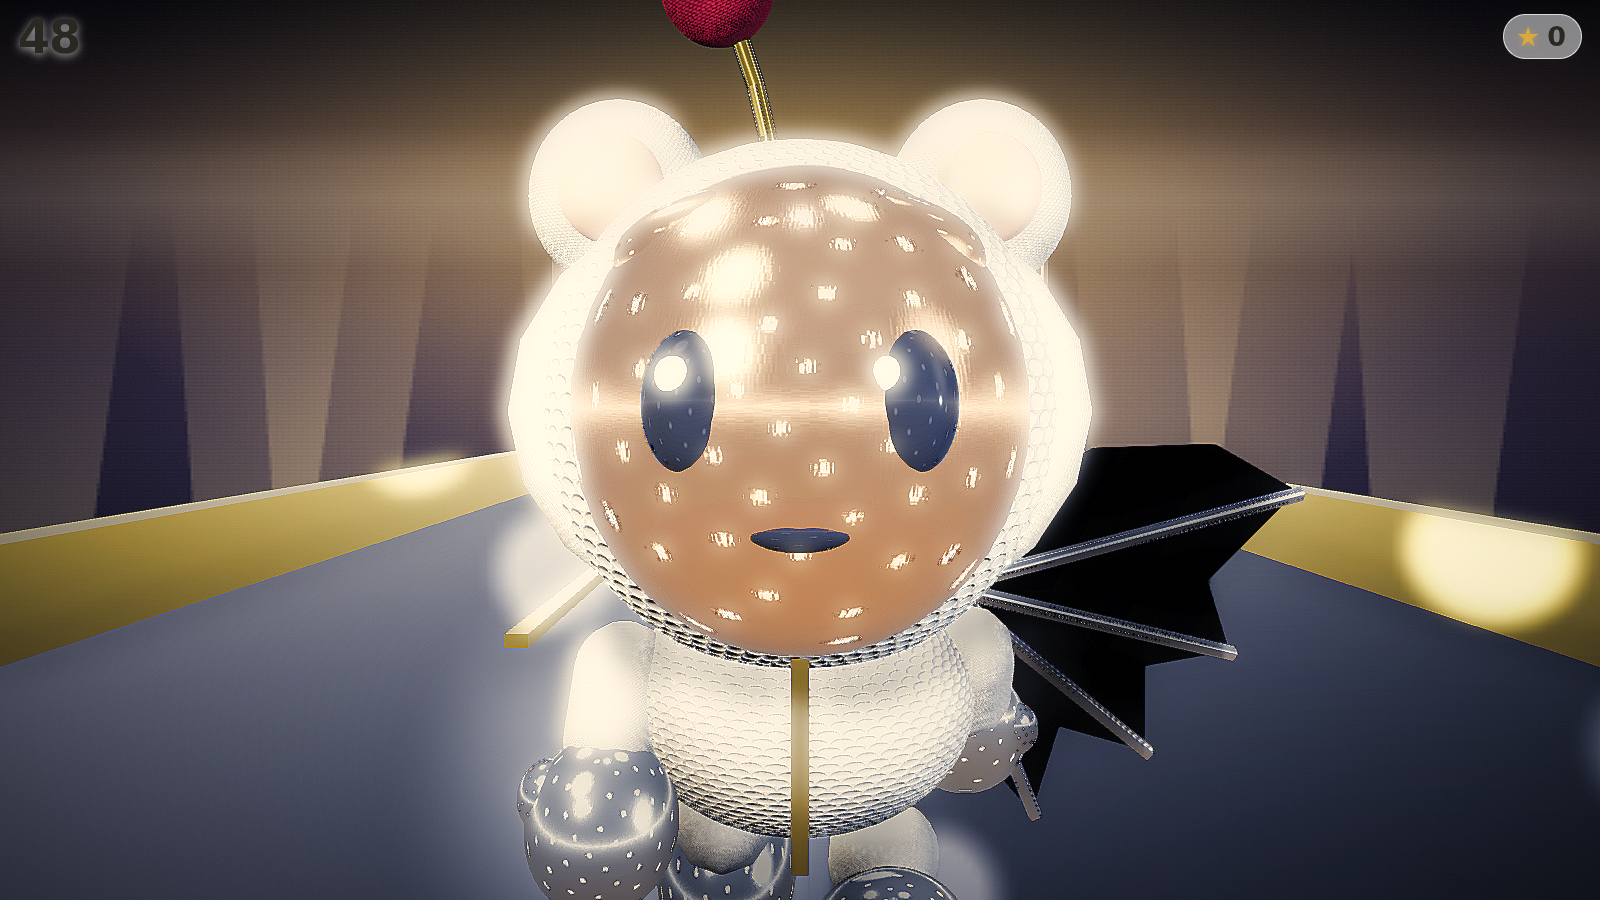
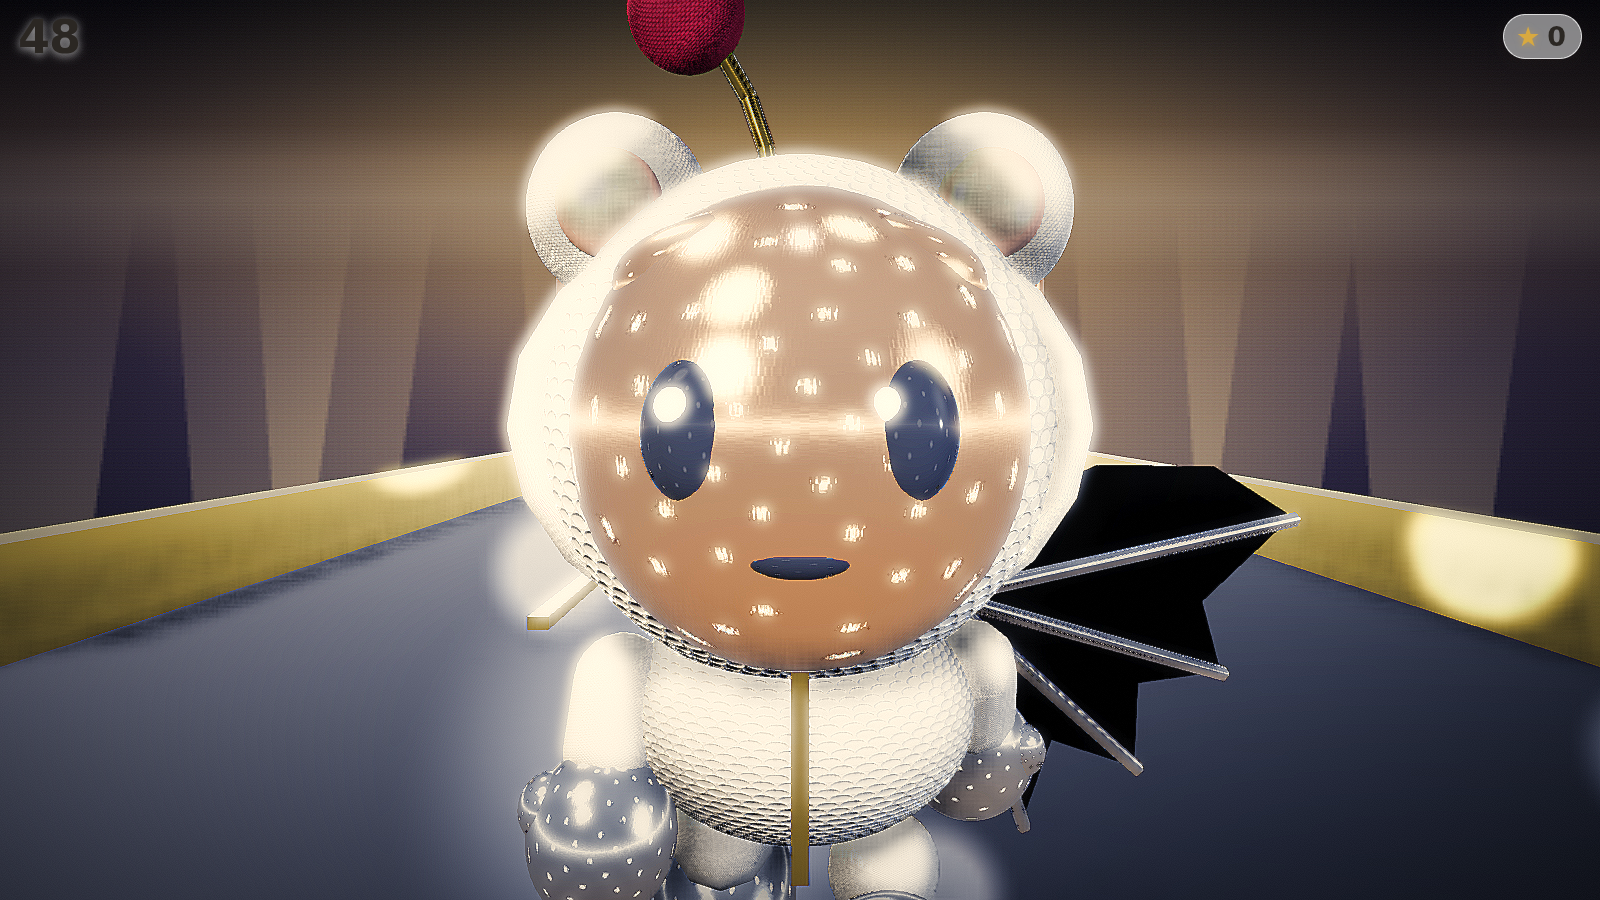
wip(post): write up the second measurement pass and hand the bloom mask to world/
PROGRESS.md gains the eighth finding: the first grading probe never ran the
obstacle-gap seek that capture.mjs runs, so with collision disabled the player
had coasted into a solid block and every histogram was sampled from inside a
grey obstacle. Re-measured, the vignette was halving frame luminance, exposure
2.05 was erasing the pave, and sharpen (not highlightsExposure) is the operator
that produces pixel-scale sparkle.

Also records two handoffs: the emitters and the character share the same linear
brightness band so bloom needs a GlowLayer mask in world/, and issue #2
(portrait framing) was misdiagnosed — the corridor was narrow, not the character
large.

diff --git a/PROGRESS.md b/PROGRESS.md
@@ -86,6 +86,72 @@ Consequence for later sprints: **spend effort on the environment before
 spending it on materials.** Material parameters are close to irrelevant next to
 what they are reflecting.
 
+**Eighth finding: the post pipeline was measured a second time, and three of
+the "measured" numbers from the first pass were measuring the wrong frame.**
+
+The first grading probe posed the hero shot by fast-forwarding to a fixed time
+and never ran the obstacle-gap seek that `tools/capture.mjs` runs. In capture
+mode collision is disabled, so the player coasts into a solid block: every
+histogram in the first pass was taken from **inside a grey obstacle**. Re-run
+with the seek, three things changed sign.
+
+1. **The vignette was the darkness.** Not the backdrop, not the lighting rig,
+   not the fog. Hero pose mean luminance 68.2 as shipped, 132.8 with only the
+   vignette switched off. It is applied *before* the tonemapper, so it does not
+   dim pixels, it crushes them into the ACES toe. The critic's "44.6% of the
+   frame below luminance 40, top quarter dead black holding nothing" was almost
+   entirely this one control. Also: `vignetteK` scales the vignette
+   *coordinate*, so a LARGER K is a TIGHTER vignette — the opposite of how it
+   reads. 3.2/K0.52 -> 4.6/K0.34 keeps the corners dark and stops the falloff
+   eating the top third. Pixels below luminance 40: 43.5% -> 18.6%.
+
+2. **Exposure 2.05 was erasing the pavé.** The first pass raised exposure to
+   reach the ACES shoulder. That was right for the corridor and ruinous for the
+   character, whose surface is a large area of near-white albedo: it sat on a
+   flat clipped plateau. The face pose measured 37.7% of the frame below
+   luminance 40 *and* p95 at 239 — every pixel either black or blown. Exposure
+   1.80 gives back the stone-by-stone structure, the hood rim, the boot stones
+   and the second eye catchlight.
+
+3. **Sharpen, not exposure, is the sparkle lever.** The frame had essentially
+   no pixels at 255, and a pavé surface under studio light is *defined* by
+   pixel-scale blowouts. `highlightsExposure` produces them but is a luminance-
+   BAND operator — it cannot tell a 2px specular from the character's entire
+   white head, and at 58 it clipped 8.1% of the face pose to paper. Sharpen is
+   LOCAL: 0.40 -> 1.00 moved pixels above luminance 250 from 0.215% to 1.063%
+   while the frame mean moved 93.4 -> 93.6. It is now on at `low` too, because
+   it is roughly 40% of the FXAA pass `low` already runs.
+
+**AO was switched on and doing nothing.** `ssao.radius` was 1.6 *metres* —
+most of the character's height. Measured on the front pose: mean luminance 95.4
+with AO on against 96.1 with it off, a 0.7% difference, because nearly every
+sample landed in open space. The creases that matter (hood/head junction, ear
+roots, arm sockets, boot contact) are 0.1..0.4m features. At 0.55m the effect is
+~3.5x and the difference image shows it landing on those junctions. This is the
+fix for "the character reads as a pile of separate balls".
+
+**No bloom threshold can separate the corridor from the character.** The
+previous note claimed the emissive columns were "far brighter than 1.6". That
+was assumed, never sampled, and it is false. Swept and looked at: at 1.90 the
+emitters glow, at 2.30 they are visibly dimmer, at 2.80 they are completely
+flat, and 3.50 is pixel-identical to 2.80 — nothing in the scene is above 3.5.
+The emitters and the pavé sit in the same narrow linear band. Separating them
+needs a mask, not a threshold: **a `GlowLayer` on the emitters in `world/`**
+would let the bloom threshold here rise out of the character's range entirely.
+Until then 1.90 is the compromise. What post could take was the KERNEL: 64 ->
+40 concentrates the same light into a smaller radius, which reads as specular
+rather than as fog (face pose pixels over luminance 250, 1.8% -> 2.4%).
+
+**The lens did not fit the frame it was in.** Babylon's `FreeCamera` defaults
+to `FOVMODE_VERTICAL_FIXED`, which holds the vertical angle and lets the
+horizontal one collapse with the aspect ratio — a 27 degree horizontal field on
+a 390x844 phone. `camFovBase` is now an aspect-compensated getter in
+`core/config.js`: a tangent-space blend between vertical-fixed and
+horizontal-fixed, so portrait gains corridor width and desktop gains subject
+size without either going near a fisheye. The blend was tuned by looking, twice
+— 0.45 improved desktop and shrank the phone framing to a seventh of frame
+height, 0.20 is where both hold.
+
 **Seventh finding: the post pipeline was three separate measurement failures,
 and one of them belongs to somebody else.**
 
@@ -219,11 +285,13 @@ adding polish.
 | 14 | **Sky Layer is double-gamma'd** — zone gradients authored in sRGB are blitted as linear then gamma-encoded again, so the dark vault backdrop renders as a mid tan wash. See seventh finding. Largest single remaining defect in the final image | `world/zones.js` | next |
 | 1 | Zones change the backdrop but the world still has no landmarks or parallax depth layers | `world/` | Sprint 4 |
 | 12 | Gilt zone has the lowest track/background contrast of the five — watch it on a phone in daylight | `world/zones.js` | needs a device |
-| 2 | Portrait framing puts the character quite large in frame; camera may need a per-aspect distance | `play/`, `core/config.js` | Sprint 2 |
+| 2 | ~~Portrait framing puts the character quite large in frame~~ — MISDIAGNOSED. The character was not large; the corridor was narrow, because Babylon's vertical-fixed fov left portrait with a 27 degree horizontal field. `camFovBase` is now an aspect-compensated getter. Remaining: `play/` has no lateral camera offset, so every shot is dead-astern and the face and wing are never seen in play | `play/` | Sprint 4 |
 | 3 | Fringe under the hood rim still reads weakly; face/hood separation could go further | `char/` | polish |
 | 13 | No pavé surface treatment yet — the stretch goal from PLAN.md section 2 | `mat/` | optional |
 | 4 | Shadows not visibly landing; generator wired but unverified | `world/` | Sprint 1 |
-| 15 | AO is on but subtle — the scene is mostly convex objects far apart, so there is little for SSAO to occlude. It will pay off much more once `world/` has clutter and `track/` has surface relief | `world/`, `track/` | with detail work |
+| 16 | **Corridor emitters and the character occupy the same linear brightness band (1.9..2.3), so no bloom threshold can glow one without haloing the other.** Needs a `GlowLayer` driven by the emitters' emissive channel; then `core/post.js` can raise its threshold out of the character's range | `world/` | next |
+| 17 | The wing is a zero-thickness sheet and catches one softbox as a single blown white disc in `char-rear.png`. Post cannot fix a specular that large — it is geometry | `char/` | polish |
+| 15 | ~~AO is on but subtle~~ — RESOLVED as a bug, not a limitation: the radius was 1.6m, most of the character's height, so the pass measured as inert (0.7% frame difference against AO off). Now 0.55m. It will still pay off more once `world/` has clutter and `track/` has surface relief | `world/`, `track/` | with detail work |
 | 5 | Env cubemap mips are not properly convolved, so rough materials are approximate. Fine while everything is polished | `mat/` | Sprint 2 if needed |
 | 6 | Wall arrow is small and low-contrast against the dark chrome wall | `track/`, `mat/` | Sprint 2 |
 | 11 | Turn frequency (42% of chunks) is still an untuned guess | `track/` | needs a human playing |
@@ -272,6 +340,7 @@ Fan-out starts at Sprint 4.
 |---|---|---|
 | 2026-07-31 | 1 | Sprint 0: repo, scaffold, core engine, materials, blockout character, track, harness, docs. Build + smoke + capture all green. |
 | 2026-07-31 | 1 | Sprint 1 (partial): chunk grammar with solvability validator, three obstacle types, swept collision, collectible stars, death + results + restart. Smoke test 16 -> 26 checks. Turns still outstanding. |
+| 2026-08-01 | 2 | Post re-measured with the correct pose (the first probe had been sampling the inside of an obstacle). Vignette was halving frame luminance; exposure 2.05 was erasing the pavé; sharpen 0.40 -> 1.00 is the sparkle lever and is now on at `low`; SSAO radius 1.6m -> 0.55m turned an inert pass into contact occlusion; bloom kernel 64 -> 40; aspect-compensated lens in `core/config.js`. Below luminance 40 on the hero pose: 43.5% -> 18.6%. 36 checks pass. |
 | 2026-08-01 | 1 | Post pipeline rebuilt in `core/post.js`: SSAO2 (high + medium), measured exposure/contrast, split-tone colour curves, bloom threshold 0.72 -> 1.60, aspect-stable vignette, dithering. Grain, chromatic aberration and depth of field evaluated and rejected. Found and documented the sky-layer double-gamma defect for `world/`. 36 checks pass, all 15 poses capture. |
 | 2026-07-31 | 2 | Sprint 3: character rebuilt to resemble the NFT. Face/hood separation, eyes with catchlights, bat wing, antenna, better animation. |
 | 2026-07-31 | 2 | Jewel-box world shipped with five progressive zones. Art direction chosen by comparing three built mockups rather than describing them. |
